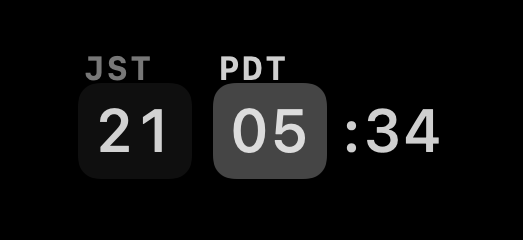
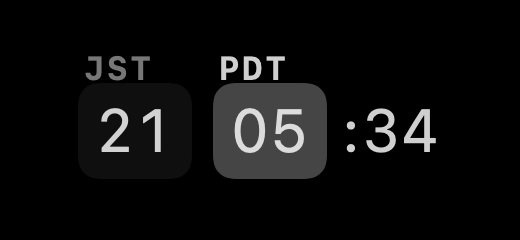
feat(glyph): thin time digits to regular weight

diff --git a/doubletime/DesignSystem/DesignTokens.swift b/doubletime/DesignSystem/DesignTokens.swift
@@ -75,11 +75,11 @@ enum DesignTokens {
 
     // MARK: Typography
 
-    /// Time digits (HH and :mm), 10pt medium. monospacedDigit is mandatory so
+    /// Time digits (HH and :mm), 10pt regular. monospacedDigit is mandatory so
     /// the glyph never jitters as digits change. 10pt (down from 11) keeps
     /// ~40% more side air inside the fixed 19×16 cell — the chip reads as a
     /// container with padding rather than a box hugging its ink.
-    static let timeFont = Font.system(size: 10, weight: .medium).monospacedDigit()
+    static let timeFont = Font.system(size: 10, weight: .regular).monospacedDigit()
     static let timeTracking: CGFloat = 0.2
 
     /// Zone label: 5.5pt bold monospaced — a deliberate menu-bar-only exception.
